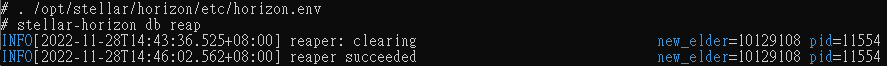
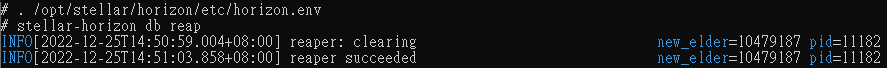
Add files via upload

diff --git a/api/index.htm b/api/index.htm
@@ -3,7 +3,7 @@
 <head>
 <meta http-equiv=Content-Type content="text/html; charset=utf-8">
 <meta name=Generator content="Microsoft Word 15 (filtered)">
-<title>API Services是什麼</title>
+<title>API Services是什麼？</title>
 <style>
 <!--
  /* Font Definitions */
@@ -460,11 +460,10 @@ lang=EN-US> %appdata%\Pi Network\docker_volumes\stellar\horizon\etc\horizon.env
 </span><span style='font-family:"新細明體",serif'>，加入一行</span> <span lang=EN-US
 style='background:yellow'>export HISTORY_RETENTION_COUNT=nnn</span><span
 lang=EN-US> </span><span style='font-family:"新細明體",serif'>。範例中的</span><span
-lang=EN-US>360</span><span style='font-family:"新細明體",serif'>個區塊大約是</span><span
-lang=EN-US>30</span><span style='font-family:"新細明體",serif'>分鐘。</span></p>
+lang=EN-US>17280</span><span style='font-family:"新細明體",serif'>個區塊大約是一天。</span></p>
 
-<p class=MsoNormal><span lang=EN-US><img border=0 width=927 height=416
-id="圖片 13" src="api.files/image017.png"></span></p>
+<p class=MsoNormal><span lang=EN-US><img border=0 width=900 height=413 id="圖片 6"
+src="api.files/image017.png"></span></p>
 
 <p class=MsoNormal><span lang=EN-US>&nbsp;</span></p>
 
@@ -474,26 +473,78 @@ lang=EN-US>Horizon</span><span style='font-family:"新細明體",serif'>。</spa
 <p class=MsoNormal><span lang=EN-US>&nbsp;</span></p>
 
 <p class=MsoNormal><span style='font-family:"新細明體",serif'>一個小時後可以看到清除的紀錄，只保留</span><span
-lang=EN-US>360</span><span style='font-family:"新細明體",serif'>個區塊（</span><span
-lang=EN-US>10390832 - 10390473 + 1 = 360</span><span style='font-family:"新細明體",serif'>）。每個小時也都會執行。</span></p>
+lang=EN-US>17280</span><span style='font-family:"新細明體",serif'>個區塊（</span><span
+lang=EN-US>10494012 - 10476733 + 1 = 17280</span><span style='font-family:"新細明體",serif'>）。每個小時也都會執行。</span></p>
 
-<p class=MsoNormal><span lang=EN-US><img border=0 width=1254 height=305
-id="圖片 28" src="api.files/image018.png"></span></p>
+<p class=MsoNormal><span lang=EN-US><img border=0 width=1303 height=303
+id="圖片 11" src="api.files/image018.png"></span></p>
 
 <p class=MsoNormal><span lang=EN-US>&nbsp;</span></p>
 
 <p class=MsoNormal><span style='font-family:"新細明體",serif'>最早歷史區塊也跟著變動：</span></p>
 
 <p class=MsoNormal><span lang=EN-US><img border=0 width=937 height=342
-id="圖片 12" src="api.files/image019.png"></span></p>
+id="圖片 31" src="api.files/image019.png"></span></p>
 
 <p class=MsoNormal><span lang=EN-US>&nbsp;</span></p>
 
 <p class=MsoNormal><span style='font-family:"新細明體",serif'>或者是用</span><span
 lang=EN-US>stellar-horizon db reap</span><span style='font-family:"新細明體",serif'>指令手動清除：</span></p>
 
-<p class=MsoNormal><span lang=EN-US><img border=0 width=887 height=66 id="圖片 30"
+<p class=MsoNormal><span lang=EN-US><img border=0 width=887 height=68 id="圖片 32"
 src="api.files/image020.png"></span></p>
+
+<p class=MsoNormal><span lang=EN-US>&nbsp;</span></p>
+
+<p class=MsoNormal><span style='font-family:"新細明體",serif'>詳細來講，是先檢查</span><span
+lang=EN-US>history_ledgers</span><span style='font-family:"新細明體",serif'>的最大最小區塊序號，如果差距小於</span><span
+lang=EN-US>HISTORY_RETENTION_COUNT</span><span style='font-family:"新細明體",serif'>，就不用刪除資料。</span></p>
+
+<p class=MsoNormal><span lang=EN-US>SELECT COALESCE(MAX(sequence), 0) FROM
+history_ledgers;</span></p>
+
+<p class=MsoNormal><span lang=EN-US>SELECT COALESCE(MIN(sequence), 0) FROM
+history_ledgers;</span></p>
+
+<p class=MsoNormal><span lang=EN-US>&nbsp;</span></p>
+
+<p class=MsoNormal><span style='font-family:"新細明體",serif'>接著查詢</span><span
+lang=EN-US>exp_ingest_last_ledger</span><span style='font-family:"新細明體",serif'>，基本上應該是跟前述的最小區塊序號相同。</span></p>
+
+<p class=MsoNormal><span lang=EN-US>SELECT key_value_store.value FROM
+key_value_store WHERE key_value_store.key = 'exp_ingest_last_ledger';</span></p>
+
+<p class=MsoNormal><span lang=EN-US>&nbsp;</span></p>
+
+<p class=MsoNormal><span style='font-family:"新細明體",serif'>將此數字減去</span><span
+lang=EN-US>HISTORY_RETENTION_COUNT</span><span style='font-family:"新細明體",serif'>，即得到</span><span
+lang=EN-US>new_elder</span><span style='font-family:"新細明體",serif'>區塊序號，再由</span><span
+lang=EN-US>new_elder</span><span style='font-family:"新細明體",serif'>查詢</span><span
+lang=EN-US>history_ledgers</span><span style='font-family:"新細明體",serif'>中的</span><span
+lang=EN-US>id</span><span style='font-family:"新細明體",serif'>，即得到要刪除的鍵值。會刪除以下</span><span
+lang=EN-US>7</span><span style='font-family:"新細明體",serif'>個表格的資料：</span></p>
+
+<p class=MsoNormal><span lang=EN-US>DELETE FROM history_effects WHERE
+history_operation_id &gt;= 0 AND history_operation_id &lt; $1;</span></p>
+
+<p class=MsoNormal><span lang=EN-US>DELETE FROM history_operation_participants
+WHERE history_operation_id &gt;= 0 AND history_operation_id &lt; $1;</span></p>
+
+<p class=MsoNormal><span lang=EN-US>DELETE FROM history_operations WHERE id
+&gt;= 0 AND id &lt; $1;</span></p>
+
+<p class=MsoNormal><span lang=EN-US>DELETE FROM
+history_transaction_participants WHERE history_transaction_id &gt;= 0 AND
+history_transaction_id &lt; $1;</span></p>
+
+<p class=MsoNormal><span lang=EN-US>DELETE FROM history_transactions WHERE id
+&gt;= 0 AND id &lt; $1;</span></p>
+
+<p class=MsoNormal><span lang=EN-US>DELETE FROM history_ledgers WHERE id &gt;=
+0 AND id &lt; $1;</span></p>
+
+<p class=MsoNormal><span lang=EN-US>DELETE FROM history_trades WHERE
+history_operation_id &gt;= 0 AND history_operation_id &lt; $1;</span></p>
 
 <p class=MsoNormal><span lang=EN-US>&nbsp;</span></p>
 
